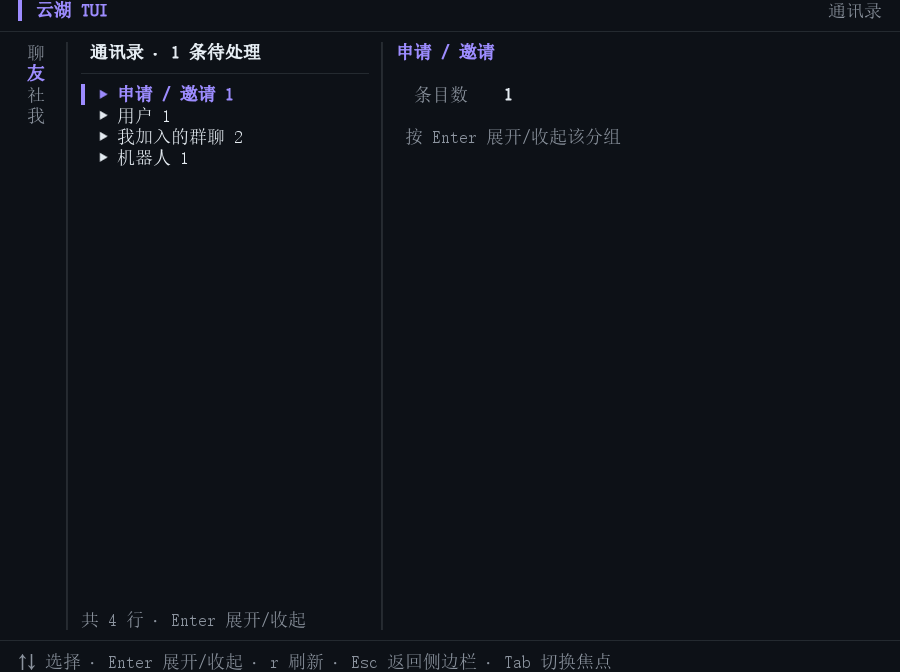
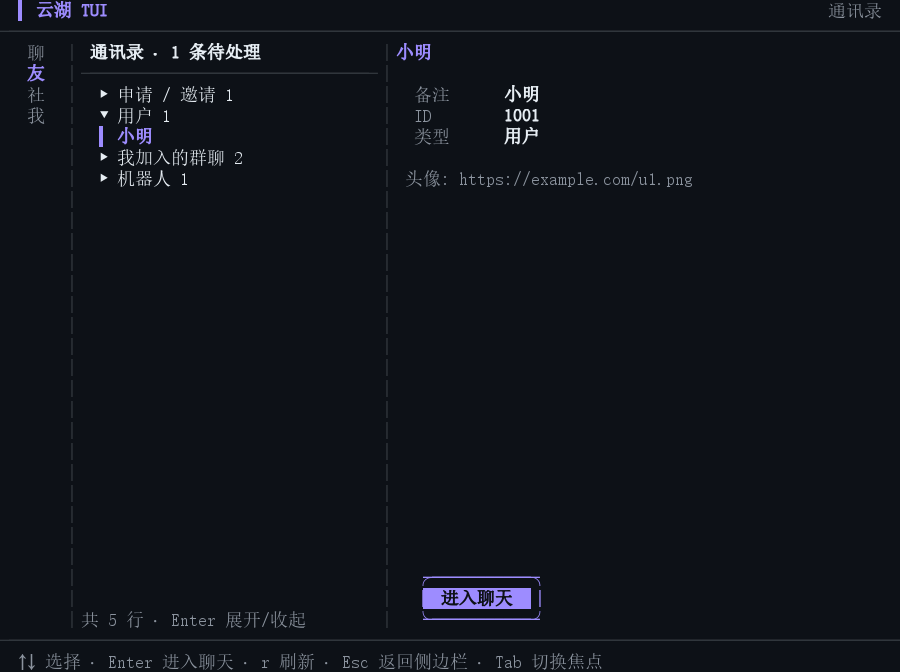
feat(tui): contact home page with enter-chat button, blank collapsed detail

diff --git a/internal/tui/contacts.go b/internal/tui/contacts.go
@@ -257,6 +257,19 @@ func (m contactsModel) handleKey(msg tea.KeyMsg) (contactsModel, tea.Cmd) {
 		m.ensureVisible()
 		return m, nil
 	case "enter", "right":
+		row := m.selectedRow()
+		if row == nil {
+			return m, nil
+		}
+		if row.kind == contactRowContact {
+			chatID := row.contact.ID
+			chatType := row.chatType
+			name := row.contact.DisplayName()
+			avatarURL := row.contact.AvatarURL
+			return m, func() tea.Msg {
+				return openContactChatMsg{chatID: chatID, chatType: chatType, name: name, avatarURL: avatarURL}
+			}
+		}
 		m.toggleRow()
 		return m, nil
 	case "left":
@@ -556,15 +569,15 @@ func (m contactsModel) detailColumn(bodyH, width int) []string {
 		return padLines(lines, bodyH, width)
 	}
 
+	button := ""
 	switch row.kind {
 	case contactRowHeader:
-		lines = append(lines, titleAccentStyle.Render(row.label), "")
-		lines = append(lines, m.detailRow(width, "条目数", fmt.Sprintf("%d", row.count)))
-		if row.chatType != api.ChatTypeUnknown {
-			lines = append(lines, m.detailRow(width, "类型", row.chatType.Label()))
+		// A collapsed section has no detail page of its own; the right pane
+		// stays empty until an actual entry is selected.
+		if !row.expanded {
+			return padLines(nil, bodyH, width)
 		}
-		lines = append(lines, "")
-		lines = append(lines, hintStyle.Render(" 按 Enter 展开/收起该分组"))
+		lines = append(lines, "", hintStyle.Render(" 从下方选择条目查看主页"))
 	case contactRowContact:
 		contact := row.contact
 		lines = append(lines, titleAccentStyle.Render(contact.DisplayName()), "")
@@ -589,7 +602,7 @@ func (m contactsModel) detailColumn(bodyH, width int) []string {
 		if contact.AvatarURL != "" {
 			lines = append(lines, "", hintStyle.Render(" 头像: "+truncate(contact.AvatarURL, maxInt(8, width-8))))
 		}
-		lines = append(lines, "", hintStyle.Render(" 提示：聊天列表中的会话可开始聊天"))
+		button = buttonFocusedStyle.Render("进入聊天")
 	case contactRowRequest:
 		request := row.request
 		lines = append(lines, titleAccentStyle.Render("申请 / 邀请"), "")
@@ -619,7 +632,17 @@ func (m contactsModel) detailColumn(bodyH, width int) []string {
 		lines = append(lines, m.detailRow(width, "状态", status))
 		lines = append(lines, "", hintStyle.Render(" 处理申请将在后续版本支持"))
 	}
-	return padLines(lines, bodyH, width)
+	if button == "" {
+		return padLines(lines, bodyH, width)
+	}
+	// Pin the "enter chat" button to the bottom of the detail pane.
+	buttonLines := strings.Split(button, "\n")
+	contentH := maxInt(1, bodyH-len(buttonLines))
+	out := padLines(lines, contentH, width)
+	for _, line := range buttonLines {
+		out = append(out, padLine("  "+line, width))
+	}
+	return out
 }
 
 // detailRow renders a label/value pair inside the detail pane.
@@ -633,6 +656,9 @@ func (m contactsModel) detailRow(width int, label, value string) string {
 func (m contactsModel) viewHints() string {
 	if m.focus == contactsSidebar {
 		return sidebarHint()
+	}
+	if row := m.selectedRow(); row != nil && row.kind == contactRowContact {
+		return "↑↓ 选择 · Enter 进入聊天 · r 刷新 · Esc 返回侧边栏 · Tab 切换焦点"
 	}
 	return "↑↓ 选择 · Enter 展开/收起 · r 刷新 · Esc 返回侧边栏 · Tab 切换焦点"
 }

diff --git a/internal/tui/pages_test.go b/internal/tui/pages_test.go
@@ -264,3 +264,53 @@ func TestProfileUserDataAndSettings(t *testing.T) {
 		}
 	}
 }
+
+func TestContactsEnterChat(t *testing.T) {
+	ts := newTestServer(t)
+	app, _ := newTestApp(t, ts)
+	loginEmail(t, app)
+	switchToSection(t, app, sectionContacts)
+
+	// Expand 用户 and select 小明 (an existing conversation).
+	sendKey(t, app, tea.KeyDown)
+	sendKey(t, app, tea.KeyEnter)
+	sendKey(t, app, tea.KeyDown)
+	cmd := sendKey(t, app, tea.KeyEnter)
+	if cmd == nil {
+		t.Fatal("Enter on a contact should emit an open-chat message")
+	}
+	applyAll(t, app, cmd)
+	if app.screen != screenChat {
+		t.Fatalf("screen = %v, want chat", app.screen)
+	}
+	selected := app.chat.selectedConv()
+	if selected == nil || selected.ChatID != testUserChatID {
+		t.Fatalf("selected conversation = %+v", selected)
+	}
+	if app.chat.focus != focusInput {
+		t.Fatalf("focus = %v, want input", app.chat.focus)
+	}
+	if !strings.Contains(app.View(), "小明") {
+		t.Fatalf("chat view does not show the opened contact\n%s", app.View())
+	}
+
+	// A contact without an existing conversation gets a local entry so the
+	// user can start chatting immediately.
+	switchToSection(t, app, sectionContacts)
+	// Collapse 用户, then expand 机器人.
+	sendKey(t, app, tea.KeyUp)
+	sendKey(t, app, tea.KeyEnter)
+	for i := 0; i < 3; i++ {
+		sendKey(t, app, tea.KeyDown)
+	}
+	sendKey(t, app, tea.KeyEnter)
+	sendKey(t, app, tea.KeyDown)
+	cmd = sendKey(t, app, tea.KeyEnter)
+	applyAll(t, app, cmd)
+	if app.screen != screenChat {
+		t.Fatalf("screen = %v, want chat", app.screen)
+	}
+	if conv := app.chat.selectedConv(); conv == nil || conv.ChatID != "4001" {
+		t.Fatalf("synthetic conversation = %+v", conv)
+	}
+}

diff --git a/internal/tui/mainwindow.go b/internal/tui/mainwindow.go
@@ -733,6 +733,54 @@ func (m *mainWindowModel) appendOwnMessage(chatID, msgID, text string) {
 	m.ensureVisibleSelection()
 }
 
+// openConversation selects a conversation by chat id (creating a local entry
+// when it does not exist yet), loads its history and focuses the input box.
+func (m mainWindowModel) openConversation(chatID string, chatType api.ChatType, name, avatarURL string) (mainWindowModel, tea.Cmd) {
+	if chatID == "" {
+		return m, nil
+	}
+	m.search.SetValue("")
+	m.applyFilter()
+	index := -1
+	for i := range m.filtered {
+		if m.filtered[i].ChatID == chatID {
+			index = i
+			break
+		}
+	}
+	if index < 0 {
+		now := timeNow()
+		conv := api.Conversation{
+			ChatID:        chatID,
+			ChatType:      chatType,
+			Name:          name,
+			AvatarURL:     avatarURL,
+			TimestampMs:   uint64(now.UnixMilli()),
+			SendTimestamp: uint64(now.Unix()),
+		}
+		m.conversations = append([]api.Conversation{conv}, m.conversations...)
+		m.applyFilter()
+		for i := range m.filtered {
+			if m.filtered[i].ChatID == chatID {
+				index = i
+				break
+			}
+		}
+	}
+	if index >= 0 {
+		m.selected = index
+		m.ensureVisibleSelection()
+	}
+	m.setFocus(focusInput)
+	m.errText = ""
+	var cmds []tea.Cmd
+	if cmd := m.ensureMessagesCmd(); cmd != nil {
+		cmds = append(cmds, cmd)
+	}
+	cmds = append(cmds, m.applyFocus())
+	return m, tea.Batch(cmds...)
+}
+
 // markConversationRead clears the local unread badge and asks the server to
 // dismiss the notification for that conversation.
 func (m *mainWindowModel) markConversationRead(chatID string) tea.Cmd {

diff --git a/internal/tui/app.go b/internal/tui/app.go
@@ -128,6 +128,9 @@ func (a *App) Update(msg tea.Msg) (tea.Model, tea.Cmd) {
 	case openChatMsg:
 		return a, a.showChat()
 
+	case openContactChatMsg:
+		return a, a.openContactChat(msg)
+
 	case switchSectionMsg:
 		return a, a.switchSection(msg.to)
 
@@ -392,6 +395,22 @@ func (a *App) switchSection(to section) tea.Cmd {
 		return a.showHome()
 	}
 	return nil
+}
+
+// openContactChat switches to the chat window and opens the requested contact.
+func (a *App) openContactChat(msg openContactChatMsg) tea.Cmd {
+	if a.store.Data.Token == "" || msg.chatID == "" {
+		return nil
+	}
+	var cmds []tea.Cmd
+	if a.chat.token != a.store.Data.Token {
+		cmds = append(cmds, a.startChat(a.chat.user))
+	}
+	a.screen = screenChat
+	updated, cmd := a.chat.openConversation(msg.chatID, msg.chatType, msg.name, msg.avatarURL)
+	a.chat = updated
+	cmds = append(cmds, cmd)
+	return tea.Batch(cmds...)
 }
 
 // handleLogoutDone clears the token and returns to the login screen.

diff --git a/internal/tui/messages.go b/internal/tui/messages.go
@@ -106,6 +106,14 @@ type notificationsDismissedMsg struct {
 	err    error
 }
 
+// openContactChatMsg asks the App to open a chat with a contact/group/bot.
+type openContactChatMsg struct {
+	chatID    string
+	chatType  api.ChatType
+	name      string
+	avatarURL string
+}
+
 // openHomeMsg asks the App to show the account ("我的") screen.
 type openHomeMsg struct{}
 
